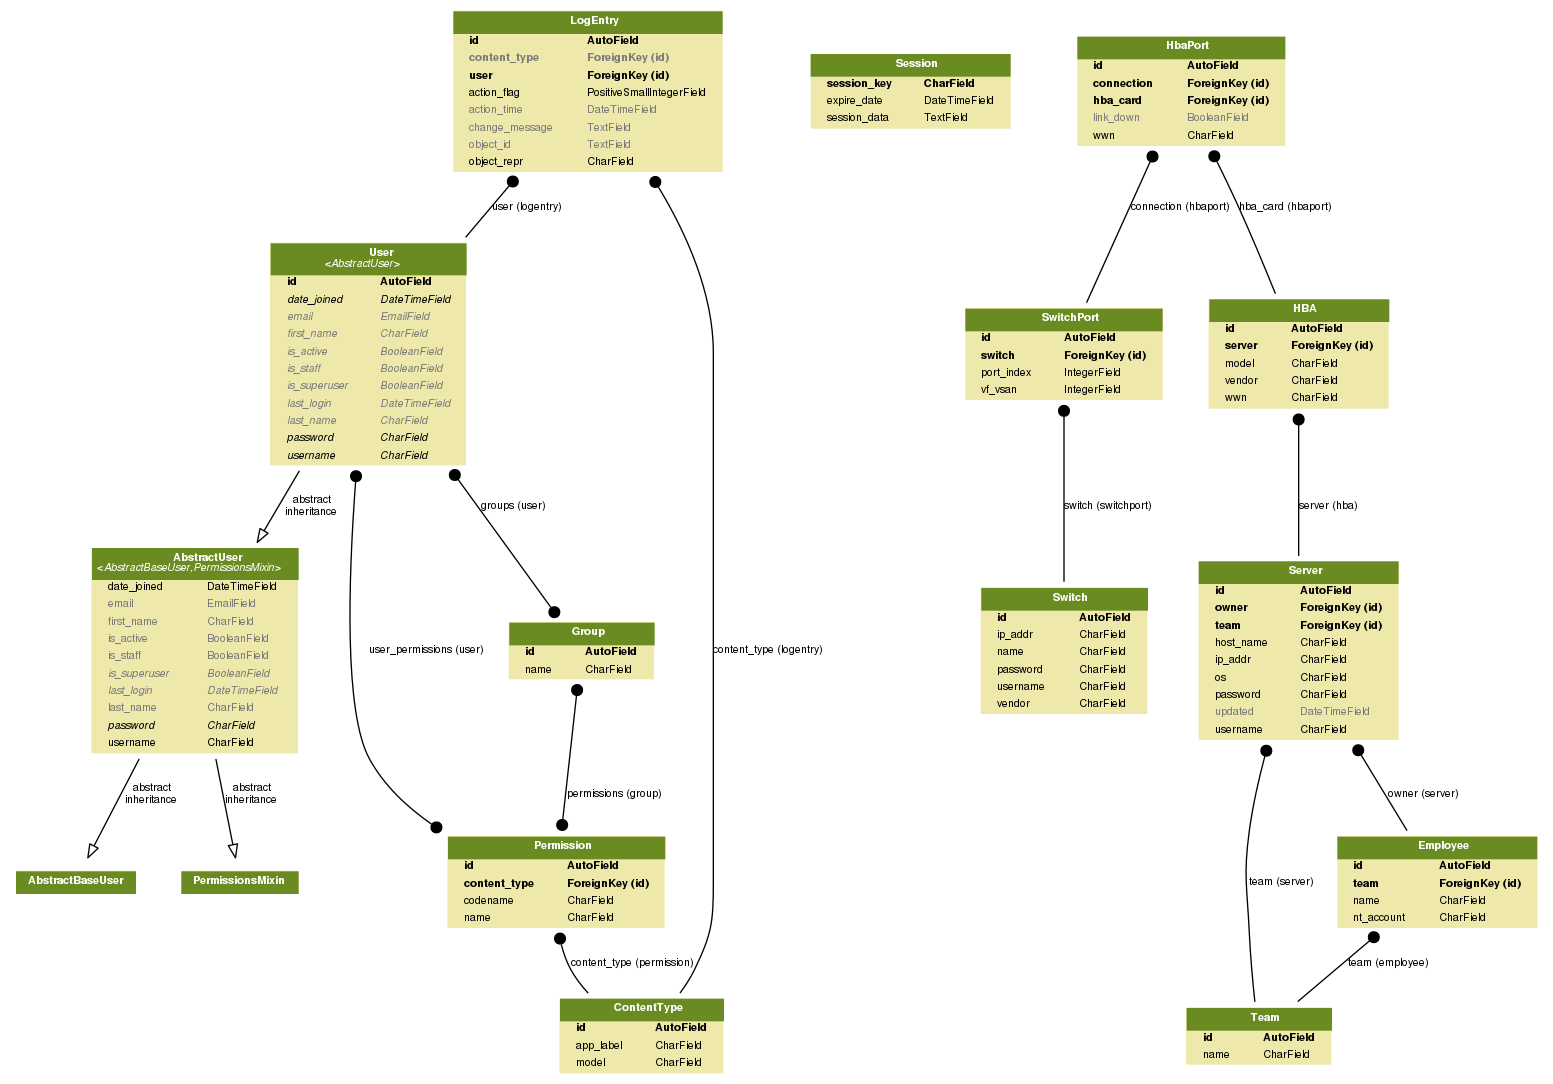
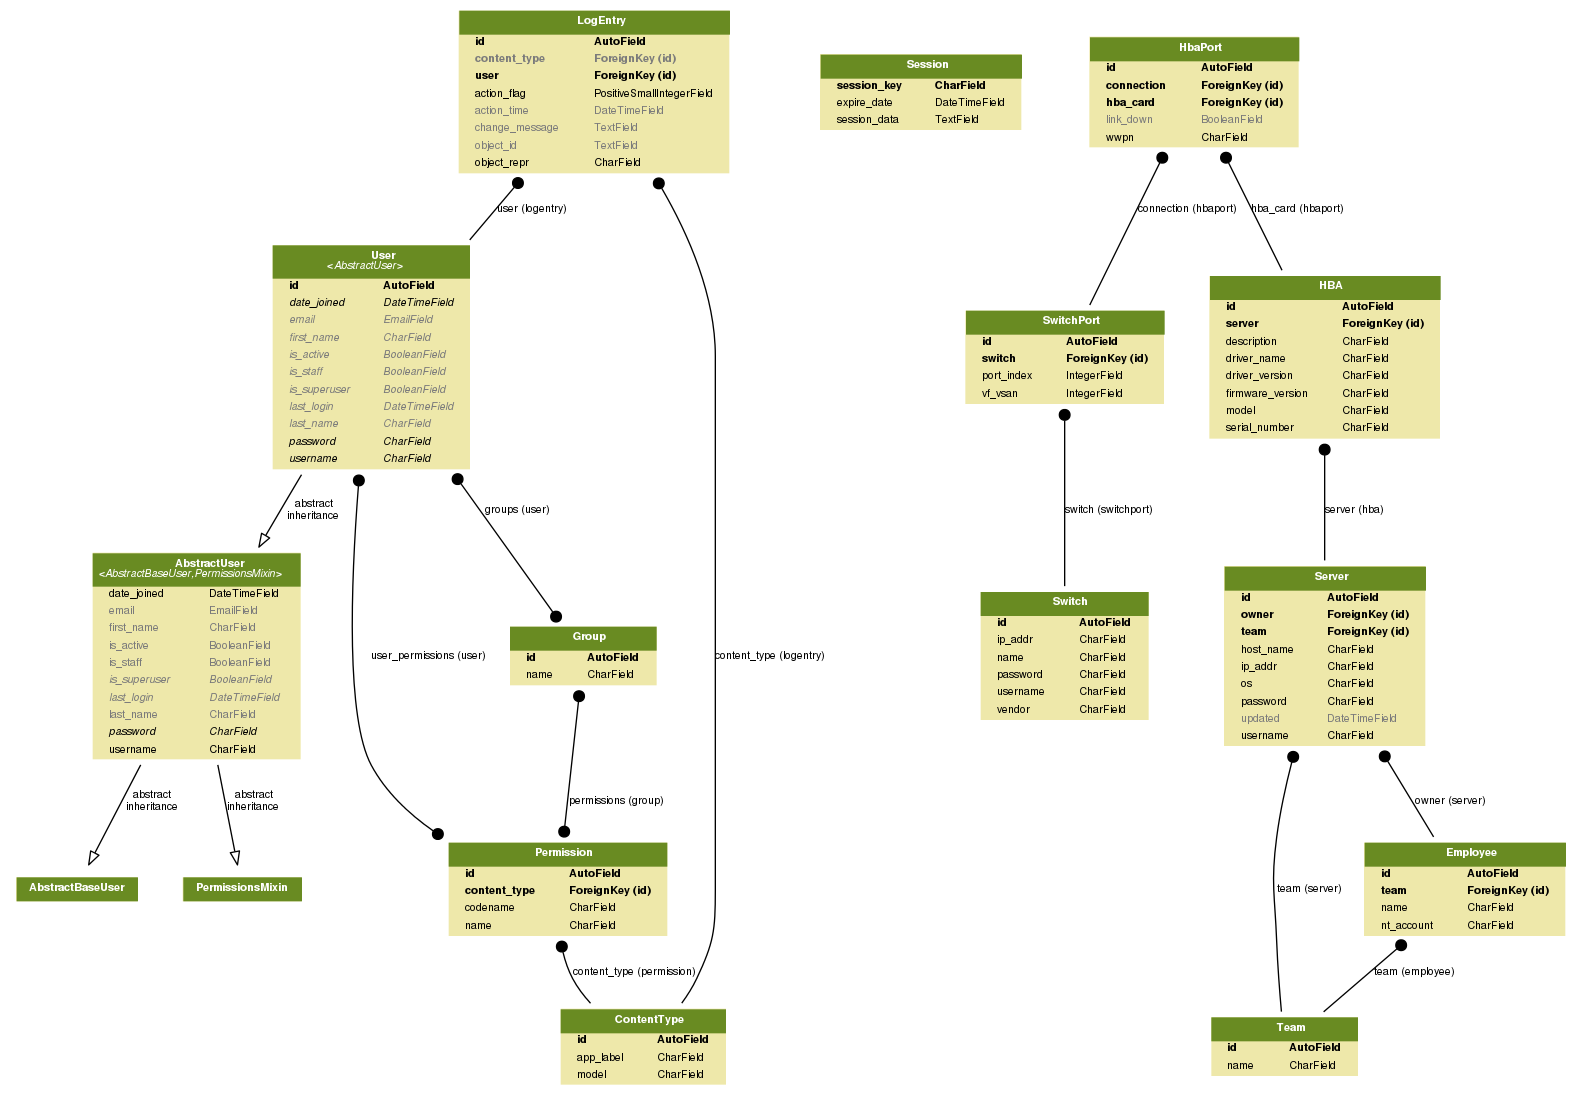
made some change to models

diff --git a/forests/migrations/0009_auto_20151110_0338.py b/forests/migrations/0009_auto_20151110_0338.py
@@ -1,0 +1,53 @@
+# -*- coding: utf-8 -*-
+from __future__ import unicode_literals
+
+from django.db import migrations, models
+
+
+class Migration(migrations.Migration):
+
+    dependencies = [
+        ('forests', '0008_auto_20151108_0854'),
+    ]
+
+    operations = [
+        migrations.RenameField(
+            model_name='hbaport',
+            old_name='wwn',
+            new_name='wwpn',
+        ),
+        migrations.RemoveField(
+            model_name='hba',
+            name='vendor',
+        ),
+        migrations.RemoveField(
+            model_name='hba',
+            name='wwn',
+        ),
+        migrations.AddField(
+            model_name='hba',
+            name='description',
+            field=models.CharField(null=True, max_length=200),
+        ),
+        migrations.AddField(
+            model_name='hba',
+            name='driver_name',
+            field=models.CharField(null=True, max_length=20),
+        ),
+        migrations.AddField(
+            model_name='hba',
+            name='driver_version',
+            field=models.CharField(null=True, max_length=20),
+        ),
+        migrations.AddField(
+            model_name='hba',
+            name='firmware_version',
+            field=models.CharField(null=True, max_length=20),
+        ),
+        migrations.AddField(
+            model_name='hba',
+            name='serial_number',
+            field=models.CharField(default='1111', max_length=50),
+            preserve_default=False,
+        ),
+    ]

diff --git a/forests/models.py b/forests/models.py
@@ -37,14 +37,17 @@ class SwitchPort(models.Model):
 
 
 class HBA(models.Model):
-    vendor = models.CharField(max_length=20)
-    wwn = models.CharField(max_length=23)
     model = models.CharField(max_length=20)
+    description = models.CharField(max_length=200, null=True)
+    driver_name = models.CharField(max_length=20, null=True)
+    driver_version = models.CharField(max_length=20, null=True)
+    firmware_version = models.CharField(max_length=20, null=True)
+    serial_number = models.CharField(max_length=50)
     server = models.ForeignKey('Server', default=None)
 
 
 class HbaPort(models.Model):
-    wwn = models.CharField(max_length=23)
+    wwpn = models.CharField(max_length=23)
     hba_card = models.ForeignKey('HBA')
-    link_down = models.BooleanField()
+    link_down = models.NullBooleanField()
     connection = models.ForeignKey('SwitchPort', null=True)

diff --git a/forests/migrations/0010_auto_20151110_0745.py b/forests/migrations/0010_auto_20151110_0745.py
@@ -1,0 +1,19 @@
+# -*- coding: utf-8 -*-
+from __future__ import unicode_literals
+
+from django.db import migrations, models
+
+
+class Migration(migrations.Migration):
+
+    dependencies = [
+        ('forests', '0009_auto_20151110_0338'),
+    ]
+
+    operations = [
+        migrations.AlterField(
+            model_name='hbaport',
+            name='link_down',
+            field=models.NullBooleanField(),
+        ),
+    ]
